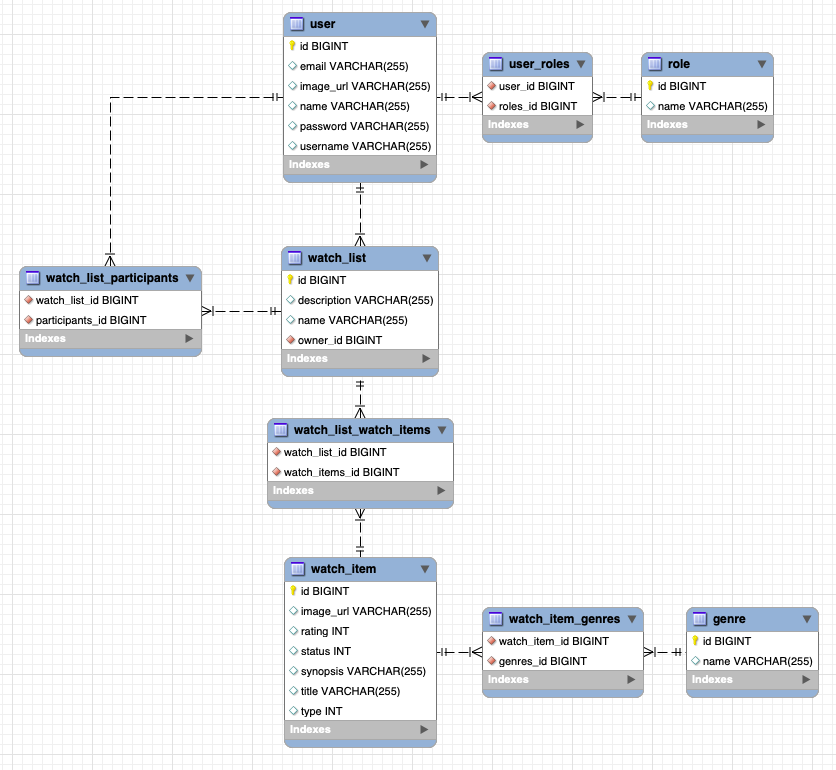
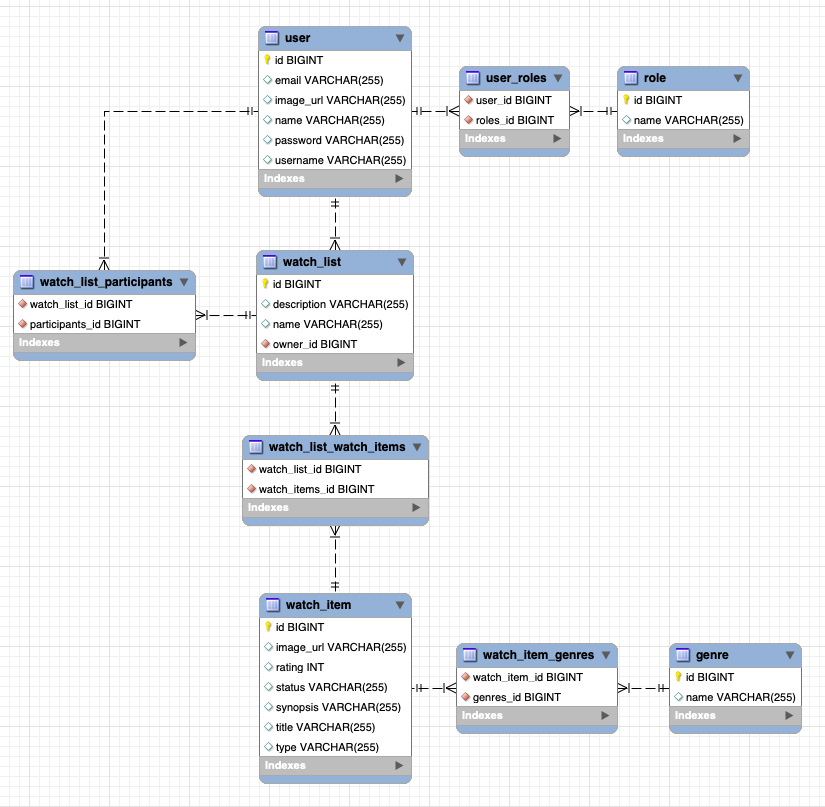
Update readme + images

Changed region(s): [[0.0, 0.0, 1.0, 1.0]]

diff --git a/src/main/java/com/ironhack/WTWAPI/model/WatchItem.java b/src/main/java/com/ironhack/WTWAPI/model/WatchItem.java
@@ -30,11 +30,13 @@ public class WatchItem {
 
     private Integer rating;
 
+    @Enumerated(EnumType.STRING)
     private Type type;
 
     @ManyToMany(fetch = FetchType.EAGER)
     private List<Genre> genres = new ArrayList<>();
 
+    @Enumerated(EnumType.STRING)
     private Status status;
 
 
